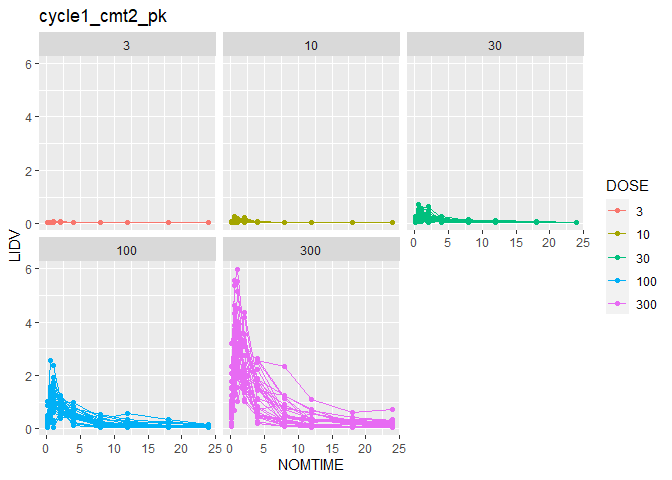
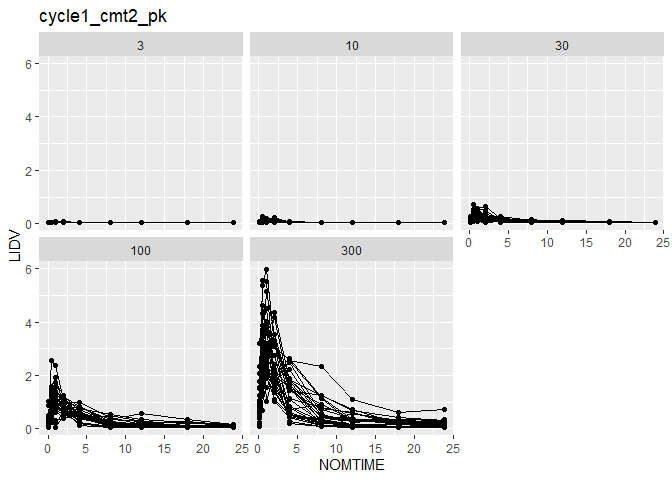
그림 변화

diff --git a/README.md b/README.md
@@ -50,17 +50,11 @@ data_cycle_1 <- data |>
 
 #plot: cycle1 cmt2 pk
 data_cycle_1 |>
-  ggplot(aes(x = NOMTIME, y = LIDV, color = DOSE, group = ID)) + geom_line() +
+  ggplot(aes(x = NOMTIME, y = LIDV, group = ID)) + geom_line() +
   geom_point() + facet_wrap(~DOSE) + labs(title = "cycle1_cmt2_pk")
 ```
 
 ![](README_files/figure-gfm/unnamed-chunk-1-1.png)<!-- -->
-
-``` r
-ggsave('cycle1_cmt2_pk.png')
-```
-
-    ## Saving 7 x 5 in image
 
 ``` r
 # 2 ----
@@ -93,12 +87,6 @@ data_mean_sd_1 |>
 ```
 
 ![](README_files/figure-gfm/unnamed-chunk-1-2.png)<!-- -->
-
-``` r
-ggsave('cycle1_pk_mean&sd.png')
-```
-
-    ## Saving 7 x 5 in image
 
 ``` r
 # 3 ----
